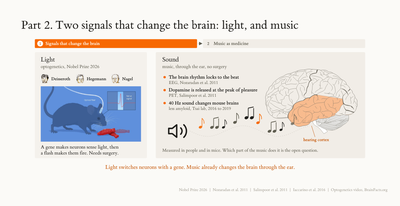
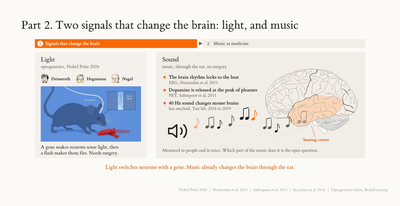
Slide 3: side nodes (Olympia, Mount Rainier, English, Eiffel Tower, Louvre, French) removed, only the two chains the questions walk, labels moved off the incoming lines
Claude-Session: https://claude.ai/code/session_01CwywQbHke1EKdwXqbCrAvs

Changed region(s): [[0.48, 0.466, 0.87, 0.6408]]

diff --git a/graph-inside/2026-11-19-cs-colloquium/index.html b/graph-inside/2026-11-19-cs-colloquium/index.html
@@ -438,7 +438,7 @@ html,body,.reveal-viewport{background:#FBFAF7 !important}
 <section data-ch="0">
 <section data-ch="0">
   <h2>Change one fact, and the next question goes wrong</h2><span class="graphtag"><svg viewBox="0 0 22 14"><line x1="3" y1="11" x2="11" y2="3" stroke="currentColor" stroke-width="1.3"/><line x1="11" y1="3" x2="19" y2="11" stroke="currentColor" stroke-width="1.3"/><line x1="3" y1="11" x2="19" y2="11" stroke="currentColor" stroke-width="1.3"/><circle cx="3" cy="11" r="2.4" fill="currentColor"/><circle cx="11" cy="3" r="2.4" fill="currentColor"/><circle cx="19" cy="11" r="2.4" fill="currentColor"/></svg><b>graph 2 of 7</b> level 2, the knowledge graph</span>
-  <svg viewBox="0 0 1180 432" style="width:100%;max-width:1160px;height:auto;max-height:432px;display:block;margin:0 auto"><style>.reveal .k3d{stroke-dasharray:100;stroke-dashoffset:100}.reveal .fragment.visible .k3d{animation:k3draw 1.2s ease forwards .3s}@keyframes k3draw{to{stroke-dashoffset:0}}.reveal .k3old{animation:k3glow 1.4s ease-in-out infinite alternate}@keyframes k3glow{from{stroke-opacity:.35}to{stroke-opacity:1}}</style><style>.reveal .k3sw{transform-box:view-box;transform-origin:193px 200px;transition:transform 1.1s cubic-bezier(.5,0,.3,1)}.reveal .fragment.custom.visible .k3sw{transform:rotate(76.0deg) scale(1.213)}.reveal .k3col{transition:stroke 1.1s}.reveal .fragment.custom.visible .k3col{stroke:#F76902}.reveal .k3late{transition:opacity .5s ease 1.1s !important}</style><defs><marker id="k3a" viewBox="0 0 10 10" refX="8" refY="5" markerWidth="6" markerHeight="6" orient="auto-start-reverse"><path d="M0,0 L10,5 L0,10 z" fill="#5F5D50"/></marker><marker id="k3o" viewBox="0 0 10 10" refX="8" refY="5" markerWidth="6" markerHeight="6" orient="auto-start-reverse"><path d="M0,0 L10,5 L0,10 z" fill="#F76902"/></marker><marker id="k3t" viewBox="0 0 10 10" refX="8" refY="5" markerWidth="6" markerHeight="6" orient="auto-start-reverse"><path d="M0,0 L10,5 L0,10 z" fill="#4C5B66"/></marker><marker id="k3k" viewBox="0 0 10 10" refX="8" refY="5" markerWidth="6" markerHeight="6" orient="auto-start-reverse"><path d="M0,0 L10,5 L0,10 z" fill="#1F1E1B"/></marker><marker id="k3g" viewBox="0 0 10 10" refX="8" refY="5" markerWidth="6" markerHeight="6" orient="auto-start-reverse"><path d="M0,0 L10,5 L0,10 z" fill="#ACA39A"/></marker><radialGradient id="k3gl"><stop offset="0" stop-color="#F76902" stop-opacity=".5"/><stop offset="1" stop-color="#F76902" stop-opacity="0"/></radialGradient><radialGradient id="k3gt"><stop offset="0" stop-color="#4C5B66" stop-opacity=".45"/><stop offset="1" stop-color="#4C5B66" stop-opacity="0"/></radialGradient></defs><defs><marker id="axk" viewBox="0 0 10 10" refX="8" refY="5" markerWidth="5" markerHeight="5" orient="auto"><path d="M0,0 L10,5 L0,10 z" fill="#1F1E1B"/></marker></defs><text x="30" y="30" font-size="16.5" font-weight="400" fill="#1F1E1B" text-anchor="start" font-family="et-book,Georgia,serif" style="font-size-adjust:none">Knowledge editing changes the one fact it targets, and leaves the related facts untouched.</text><image href="figs/space-needle-tall.jpg" x="40" y="92" width="126" height="186" preserveAspectRatio="xMidYMid meet" preserveAspectRatio="xMidYMid slice"/><rect x="24" y="284" width="158" height="40" rx="3" fill="#EFEBE5" stroke="none" stroke-width="0" /><text x="103" y="309" font-size="17.5" font-weight="600" fill="#1F1E1B" text-anchor="middle" >Space Needle</text><circle cx="184" cy="200" r="7" fill="#1F1E1B" stroke="none" stroke-width="1.5" /><rect x="232" y="40" width="548" height="124" rx="4" fill="#F4F1EC" stroke="none" stroke-width="0" /><path d="M340.0,120.0 L468.0,120.0" stroke="#7C878E" stroke-width="1.5" fill="none" marker-end="url(#k3a)" /><text x="405.0" y="113.0" font-size="14.5" font-weight="400" fill="#5F5D50" text-anchor="middle" >city in</text><path d="M490.0,120.0 L618.0,120.0" stroke="#7C878E" stroke-width="1.5" fill="none" marker-end="url(#k3a)" /><text x="555.0" y="113.0" font-size="14.5" font-weight="400" fill="#5F5D50" text-anchor="middle" >state of</text><path d="M640.0,120.0 L728.0,120.0" stroke="#7C878E" stroke-width="1.5" fill="none" marker-end="url(#k3a)" /><text x="685.0" y="113.0" font-size="14.5" font-weight="400" fill="#5F5D50" text-anchor="middle" >currency</text><path d="M480.0,110.0 L480.0,76.0" stroke="#7C878E" stroke-width="1.5" fill="none" marker-end="url(#k3a)" /><path d="M330.0,110.0 L330.0,76.0" stroke="#7C878E" stroke-width="1.5" fill="none" marker-end="url(#k3a)" /><path d="M630.0,110.0 L630.0,76.0" stroke="#7C878E" stroke-width="1.5" fill="none" marker-end="url(#k3a)" /><circle cx="330" cy="120" r="7.5" fill="#5F5D50" stroke="none" stroke-width="1.5" /><text x="330" y="146" font-size="16.5" font-weight="600" fill="#1F1E1B" text-anchor="middle" >Seattle</text><circle cx="480" cy="120" r="7.5" fill="#5F5D50" stroke="none" stroke-width="1.5" /><text x="480" y="146" font-size="16.5" font-weight="600" fill="#1F1E1B" text-anchor="middle" >Washington</text><circle cx="630" cy="120" r="7.5" fill="#5F5D50" stroke="none" stroke-width="1.5" /><text x="630" y="146" font-size="16.5" font-weight="600" fill="#1F1E1B" text-anchor="middle" >United States</text><circle cx="740" cy="120" r="7.5" fill="#5F5D50" stroke="none" stroke-width="1.5" /><text x="740" y="146" font-size="16.5" font-weight="600" fill="#1F1E1B" text-anchor="middle" >dollar</text><circle cx="480" cy="64" r="7.5" fill="#5F5D50" stroke="none" stroke-width="1.5" /><text x="493" y="69" font-size="16.5" font-weight="600" fill="#1F1E1B" text-anchor="start" >Olympia</text><circle cx="330" cy="64" r="7.5" fill="#5F5D50" stroke="none" stroke-width="1.5" /><text x="343" y="69" font-size="16.5" font-weight="600" fill="#1F1E1B" text-anchor="start" >Mount Rainier</text><circle cx="630" cy="64" r="7.5" fill="#5F5D50" stroke="none" stroke-width="1.5" /><text x="643" y="69" font-size="16.5" font-weight="600" fill="#1F1E1B" text-anchor="start" >English</text><rect x="232" y="270" width="548" height="150" rx="4" fill="#F4F1EC" stroke="none" stroke-width="0" /><path d="M340.0,330.0 L468.0,330.0" stroke="#7C878E" stroke-width="1.5" fill="none" marker-end="url(#k3a)" /><text x="405.0" y="323.0" font-size="14.5" font-weight="400" fill="#5F5D50" text-anchor="middle" >city in</text><path d="M490.0,330.0 L618.0,330.0" stroke="#7C878E" stroke-width="1.5" fill="none" marker-end="url(#k3a)" /><text x="555.0" y="323.0" font-size="14.5" font-weight="400" fill="#5F5D50" text-anchor="middle" >currency</text><path d="M330.0,382.0 L330.0,342.0" stroke="#7C878E" stroke-width="1.5" fill="none" marker-end="url(#k3a)" /><path d="M470.8,388.2 L341.1,334.6" stroke="#7C878E" stroke-width="1.5" fill="none" marker-end="url(#k3a)" /><path d="M489.2,333.8 L618.9,387.4" stroke="#7C878E" stroke-width="1.5" fill="none" marker-end="url(#k3a)" /><circle cx="330" cy="330" r="7.5" fill="#5F5D50" stroke="none" stroke-width="1.5" /><text x="330" y="316" font-size="16.5" font-weight="600" fill="#1F1E1B" text-anchor="middle" >Paris</text><circle cx="480" cy="330" r="7.5" fill="#5F5D50" stroke="none" stroke-width="1.5" /><text x="480" y="316" font-size="16.5" font-weight="600" fill="#1F1E1B" text-anchor="middle" >France</text><circle cx="630" cy="330" r="7.5" fill="#5F5D50" stroke="none" stroke-width="1.5" /><text x="630" y="316" font-size="16.5" font-weight="600" fill="#1F1E1B" text-anchor="middle" >euro</text><circle cx="330" cy="392" r="7.5" fill="#5F5D50" stroke="none" stroke-width="1.5" /><text x="343" y="397" font-size="16.5" font-weight="600" fill="#1F1E1B" text-anchor="start" >Eiffel Tower</text><circle cx="480" cy="392" r="7.5" fill="#5F5D50" stroke="none" stroke-width="1.5" /><text x="493" y="397" font-size="16.5" font-weight="600" fill="#1F1E1B" text-anchor="start" >Louvre</text><circle cx="630" cy="392" r="7.5" fill="#5F5D50" stroke="none" stroke-width="1.5" /><text x="643" y="397" font-size="16.5" font-weight="600" fill="#1F1E1B" text-anchor="start" >French</text><g class="fragment custom" data-fragment-index="1"><g class="k3sw"><line class="k3col" x1="193" y1="200" x2="318.0" y2="125.0" stroke="#1F1E1B" stroke-width="2.5"/><path d="M318.0,125.0 l-11,-5 l0,10 Z" transform="rotate(-31.0 318.0 125.0)" fill="#F76902"/></g></g><g class="fragment fade-out" data-fragment-index="1"><text x="214" y="158" font-size="15" font-weight="600" fill="#1F1E1B" text-anchor="start" transform="rotate(-28 214 158)">located in</text></g><g class="fragment k3late" data-fragment-index="1"><text x="103" y="346" font-size="15.5" font-weight="600" fill="#C45200" text-anchor="middle" >the edit:</text><text x="103" y="364" font-size="15.5" font-weight="600" fill="#C45200" text-anchor="middle" >located in Paris</text><path d="M193,194 C250,170 280,140 320,128" stroke="#ACA39A" stroke-width="1.5" fill="none" stroke-dasharray="3 5"/></g><text x="810" y="64" font-size="20" font-weight="400" fill="#C45200" text-anchor="start" font-family="et-book,Georgia,serif" style="font-size-adjust:none">Ask the model</text><path d="M810,84 h340 v68 h-340 Z" fill="#F4F1EC"/><text x="828" y="110" font-size="18" font-weight="600" fill="#1F1E1B" text-anchor="start" >Which city is it in?</text><text x="828" y="137" font-size="18.5" font-weight="400" fill="#1F1E1B" text-anchor="start" >✓ Seattle</text><path d="M810,164 h340 v68 h-340 Z" fill="#F4F1EC"/><text x="828" y="190" font-size="18" font-weight="600" fill="#1F1E1B" text-anchor="start" >Which country is it in?</text><text x="828" y="217" font-size="18.5" font-weight="400" fill="#1F1E1B" text-anchor="start" >✓ United States</text><path d="M810,244 h340 v68 h-340 Z" fill="#F4F1EC"/><text x="828" y="270" font-size="18" font-weight="600" fill="#1F1E1B" text-anchor="start" >Which state is it in?</text><text x="828" y="297" font-size="18.5" font-weight="400" fill="#1F1E1B" text-anchor="start" >✓ Washington</text><path d="M810,324 h340 v68 h-340 Z" fill="#F4F1EC"/><text x="828" y="350" font-size="18" font-weight="600" fill="#1F1E1B" text-anchor="start" >Which currency is used there?</text><text x="828" y="377" font-size="18.5" font-weight="400" fill="#1F1E1B" text-anchor="start" >✓ dollar</text><g class="fragment k3late" data-fragment-index="1"><path d="M810,84 h340 v68 h-340 Z" fill="#F4F1EC"/><path d="M810,84 h5 v68 h-5 Z" fill="#F76902"/><text x="828" y="110" font-size="18" font-weight="600" fill="#1F1E1B" text-anchor="start" >Which city is it in?</text><text x="828" y="137" font-size="18.5" font-weight="400" fill="#5F5D50" text-anchor="start" >Seattle</text><line x1="826" y1="131" x2="888" y2="131" stroke="#5F5D50" stroke-width="1.6" /><text x="898" y="137" font-size="18.5" font-weight="600" fill="#C45200" text-anchor="start" >→ Paris</text><text x="1136" y="137" font-size="15.5" font-weight="400" fill="#5F5D50" text-anchor="end" >edited</text><path d="M810,164 h340 v68 h-340 Z" fill="#FDEBDD"/><path d="M810,164 h5 v68 h-5 Z" fill="#DA291C"/><text x="828" y="190" font-size="18" font-weight="600" fill="#1F1E1B" text-anchor="start" >Which country is it in?</text><text x="828" y="217" font-size="18.5" font-weight="600" fill="#DA291C" text-anchor="start" >✗ United States</text><text x="1136" y="217" font-size="15.5" font-weight="400" fill="#5F5D50" text-anchor="end" >should be France</text><path d="M810,244 h340 v68 h-340 Z" fill="#FDEBDD"/><path d="M810,244 h5 v68 h-5 Z" fill="#DA291C"/><text x="828" y="270" font-size="18" font-weight="600" fill="#1F1E1B" text-anchor="start" >Which state is it in?</text><text x="828" y="297" font-size="18.5" font-weight="600" fill="#DA291C" text-anchor="start" >✗ Washington</text><text x="1136" y="297" font-size="15.5" font-weight="400" fill="#5F5D50" text-anchor="end" >should be none</text><path d="M810,324 h340 v68 h-340 Z" fill="#FDEBDD"/><path d="M810,324 h5 v68 h-5 Z" fill="#DA291C"/><text x="828" y="350" font-size="18" font-weight="600" fill="#1F1E1B" text-anchor="start" >Which currency is used there?</text><text x="828" y="377" font-size="18.5" font-weight="600" fill="#DA291C" text-anchor="start" >✗ dollar</text><text x="1136" y="377" font-size="15.5" font-weight="400" fill="#5F5D50" text-anchor="end" >should be euro</text><text x="810" y="418" font-size="15" font-weight="600" fill="#DA291C" text-anchor="start" >Before the edit all four agreed. Now they contradict.</text><path d="M340,120 L470,120 M490,120 L620,120 M640,120 L730,120" stroke="#DA291C" stroke-width="2.5" fill="none" class="k3old" stroke-linecap="round" fill="none"/></g></svg>
+  <svg viewBox="0 0 1180 432" style="width:100%;max-width:1160px;height:auto;max-height:432px;display:block;margin:0 auto"><style>.reveal .k3d{stroke-dasharray:100;stroke-dashoffset:100}.reveal .fragment.visible .k3d{animation:k3draw 1.2s ease forwards .3s}@keyframes k3draw{to{stroke-dashoffset:0}}.reveal .k3old{animation:k3glow 1.4s ease-in-out infinite alternate}@keyframes k3glow{from{stroke-opacity:.35}to{stroke-opacity:1}}</style><style>.reveal .k3sw{transform-box:view-box;transform-origin:193px 200px;transition:transform 1.1s cubic-bezier(.5,0,.3,1)}.reveal .fragment.custom.visible .k3sw{transform:rotate(70.8deg) scale(1.046)}.reveal .k3col{transition:stroke 1.1s}.reveal .fragment.custom.visible .k3col{stroke:#F76902}.reveal .k3late{transition:opacity .5s ease 1.1s !important}</style><defs><marker id="k3a" viewBox="0 0 10 10" refX="8" refY="5" markerWidth="6" markerHeight="6" orient="auto-start-reverse"><path d="M0,0 L10,5 L0,10 z" fill="#5F5D50"/></marker><marker id="k3o" viewBox="0 0 10 10" refX="8" refY="5" markerWidth="6" markerHeight="6" orient="auto-start-reverse"><path d="M0,0 L10,5 L0,10 z" fill="#F76902"/></marker><marker id="k3t" viewBox="0 0 10 10" refX="8" refY="5" markerWidth="6" markerHeight="6" orient="auto-start-reverse"><path d="M0,0 L10,5 L0,10 z" fill="#4C5B66"/></marker><marker id="k3k" viewBox="0 0 10 10" refX="8" refY="5" markerWidth="6" markerHeight="6" orient="auto-start-reverse"><path d="M0,0 L10,5 L0,10 z" fill="#1F1E1B"/></marker><marker id="k3g" viewBox="0 0 10 10" refX="8" refY="5" markerWidth="6" markerHeight="6" orient="auto-start-reverse"><path d="M0,0 L10,5 L0,10 z" fill="#ACA39A"/></marker><radialGradient id="k3gl"><stop offset="0" stop-color="#F76902" stop-opacity=".5"/><stop offset="1" stop-color="#F76902" stop-opacity="0"/></radialGradient><radialGradient id="k3gt"><stop offset="0" stop-color="#4C5B66" stop-opacity=".45"/><stop offset="1" stop-color="#4C5B66" stop-opacity="0"/></radialGradient></defs><defs><marker id="axk" viewBox="0 0 10 10" refX="8" refY="5" markerWidth="5" markerHeight="5" orient="auto"><path d="M0,0 L10,5 L0,10 z" fill="#1F1E1B"/></marker></defs><text x="30" y="30" font-size="16.5" font-weight="400" fill="#1F1E1B" text-anchor="start" font-family="et-book,Georgia,serif" style="font-size-adjust:none">Knowledge editing changes the one fact it targets, and leaves the related facts untouched.</text><image href="figs/space-needle-tall.jpg" x="40" y="92" width="126" height="186" preserveAspectRatio="xMidYMid meet" preserveAspectRatio="xMidYMid slice"/><rect x="24" y="284" width="158" height="40" rx="3" fill="#EFEBE5" stroke="none" stroke-width="0" /><text x="103" y="309" font-size="17.5" font-weight="600" fill="#1F1E1B" text-anchor="middle" >Space Needle</text><circle cx="184" cy="200" r="7" fill="#1F1E1B" stroke="none" stroke-width="1.5" /><rect x="232" y="66" width="548" height="82" rx="4" fill="#F4F1EC" stroke="none" stroke-width="0" /><path d="M340.0,112.0 L468.0,112.0" stroke="#7C878E" stroke-width="1.5" fill="none" marker-end="url(#k3a)" /><text x="405.0" y="131.0" font-size="14.5" font-weight="400" fill="#5F5D50" text-anchor="middle" >city in</text><path d="M490.0,112.0 L618.0,112.0" stroke="#7C878E" stroke-width="1.5" fill="none" marker-end="url(#k3a)" /><text x="555.0" y="131.0" font-size="14.5" font-weight="400" fill="#5F5D50" text-anchor="middle" >state of</text><path d="M640.0,112.0 L728.0,112.0" stroke="#7C878E" stroke-width="1.5" fill="none" marker-end="url(#k3a)" /><text x="685.0" y="131.0" font-size="14.5" font-weight="400" fill="#5F5D50" text-anchor="middle" >currency</text><circle cx="330" cy="112" r="7.5" fill="#5F5D50" stroke="none" stroke-width="1.5" /><text x="330" y="98" font-size="16.5" font-weight="600" fill="#1F1E1B" text-anchor="middle" >Seattle</text><circle cx="480" cy="112" r="7.5" fill="#5F5D50" stroke="none" stroke-width="1.5" /><text x="480" y="98" font-size="16.5" font-weight="600" fill="#1F1E1B" text-anchor="middle" >Washington</text><circle cx="630" cy="112" r="7.5" fill="#5F5D50" stroke="none" stroke-width="1.5" /><text x="630" y="98" font-size="16.5" font-weight="600" fill="#1F1E1B" text-anchor="middle" >United States</text><circle cx="740" cy="112" r="7.5" fill="#5F5D50" stroke="none" stroke-width="1.5" /><text x="740" y="98" font-size="16.5" font-weight="600" fill="#1F1E1B" text-anchor="middle" >dollar</text><rect x="232" y="264" width="548" height="82" rx="4" fill="#F4F1EC" stroke="none" stroke-width="0" /><path d="M340.0,300.0 L468.0,300.0" stroke="#7C878E" stroke-width="1.5" fill="none" marker-end="url(#k3a)" /><text x="405.0" y="293.0" font-size="14.5" font-weight="400" fill="#5F5D50" text-anchor="middle" >city in</text><path d="M490.0,300.0 L618.0,300.0" stroke="#7C878E" stroke-width="1.5" fill="none" marker-end="url(#k3a)" /><text x="555.0" y="293.0" font-size="14.5" font-weight="400" fill="#5F5D50" text-anchor="middle" >currency</text><circle cx="330" cy="300" r="7.5" fill="#5F5D50" stroke="none" stroke-width="1.5" /><text x="330" y="326" font-size="16.5" font-weight="600" fill="#1F1E1B" text-anchor="middle" >Paris</text><circle cx="480" cy="300" r="7.5" fill="#5F5D50" stroke="none" stroke-width="1.5" /><text x="480" y="326" font-size="16.5" font-weight="600" fill="#1F1E1B" text-anchor="middle" >France</text><circle cx="630" cy="300" r="7.5" fill="#5F5D50" stroke="none" stroke-width="1.5" /><text x="630" y="326" font-size="16.5" font-weight="600" fill="#1F1E1B" text-anchor="middle" >euro</text><g class="fragment custom" data-fragment-index="1"><g class="k3sw"><line class="k3col" x1="193" y1="200" x2="318.0" y2="117.0" stroke="#1F1E1B" stroke-width="2.5"/><path d="M318.0,117.0 l-11,-5 l0,10 Z" transform="rotate(-33.6 318.0 117.0)" fill="#F76902"/></g></g><g class="fragment fade-out" data-fragment-index="1"><text x="214" y="158" font-size="15" font-weight="600" fill="#1F1E1B" text-anchor="start" transform="rotate(-28 214 158)">located in</text></g><g class="fragment k3late" data-fragment-index="1"><text x="103" y="346" font-size="15.5" font-weight="600" fill="#C45200" text-anchor="middle" >the edit:</text><text x="103" y="364" font-size="15.5" font-weight="600" fill="#C45200" text-anchor="middle" >located in Paris</text><path d="M193,194 C250,170 280,140 320,120" stroke="#ACA39A" stroke-width="1.5" fill="none" stroke-dasharray="3 5"/></g><text x="810" y="64" font-size="20" font-weight="400" fill="#C45200" text-anchor="start" font-family="et-book,Georgia,serif" style="font-size-adjust:none">Ask the model</text><path d="M810,84 h340 v68 h-340 Z" fill="#F4F1EC"/><text x="828" y="110" font-size="18" font-weight="600" fill="#1F1E1B" text-anchor="start" >Which city is it in?</text><text x="828" y="137" font-size="18.5" font-weight="400" fill="#1F1E1B" text-anchor="start" >✓ Seattle</text><path d="M810,164 h340 v68 h-340 Z" fill="#F4F1EC"/><text x="828" y="190" font-size="18" font-weight="600" fill="#1F1E1B" text-anchor="start" >Which country is it in?</text><text x="828" y="217" font-size="18.5" font-weight="400" fill="#1F1E1B" text-anchor="start" >✓ United States</text><path d="M810,244 h340 v68 h-340 Z" fill="#F4F1EC"/><text x="828" y="270" font-size="18" font-weight="600" fill="#1F1E1B" text-anchor="start" >Which state is it in?</text><text x="828" y="297" font-size="18.5" font-weight="400" fill="#1F1E1B" text-anchor="start" >✓ Washington</text><path d="M810,324 h340 v68 h-340 Z" fill="#F4F1EC"/><text x="828" y="350" font-size="18" font-weight="600" fill="#1F1E1B" text-anchor="start" >Which currency is used there?</text><text x="828" y="377" font-size="18.5" font-weight="400" fill="#1F1E1B" text-anchor="start" >✓ dollar</text><g class="fragment k3late" data-fragment-index="1"><path d="M810,84 h340 v68 h-340 Z" fill="#F4F1EC"/><path d="M810,84 h5 v68 h-5 Z" fill="#F76902"/><text x="828" y="110" font-size="18" font-weight="600" fill="#1F1E1B" text-anchor="start" >Which city is it in?</text><text x="828" y="137" font-size="18.5" font-weight="400" fill="#5F5D50" text-anchor="start" >Seattle</text><line x1="826" y1="131" x2="888" y2="131" stroke="#5F5D50" stroke-width="1.6" /><text x="898" y="137" font-size="18.5" font-weight="600" fill="#C45200" text-anchor="start" >→ Paris</text><text x="1136" y="137" font-size="15.5" font-weight="400" fill="#5F5D50" text-anchor="end" >edited</text><path d="M810,164 h340 v68 h-340 Z" fill="#FDEBDD"/><path d="M810,164 h5 v68 h-5 Z" fill="#DA291C"/><text x="828" y="190" font-size="18" font-weight="600" fill="#1F1E1B" text-anchor="start" >Which country is it in?</text><text x="828" y="217" font-size="18.5" font-weight="600" fill="#DA291C" text-anchor="start" >✗ United States</text><text x="1136" y="217" font-size="15.5" font-weight="400" fill="#5F5D50" text-anchor="end" >should be France</text><path d="M810,244 h340 v68 h-340 Z" fill="#FDEBDD"/><path d="M810,244 h5 v68 h-5 Z" fill="#DA291C"/><text x="828" y="270" font-size="18" font-weight="600" fill="#1F1E1B" text-anchor="start" >Which state is it in?</text><text x="828" y="297" font-size="18.5" font-weight="600" fill="#DA291C" text-anchor="start" >✗ Washington</text><text x="1136" y="297" font-size="15.5" font-weight="400" fill="#5F5D50" text-anchor="end" >should be none</text><path d="M810,324 h340 v68 h-340 Z" fill="#FDEBDD"/><path d="M810,324 h5 v68 h-5 Z" fill="#DA291C"/><text x="828" y="350" font-size="18" font-weight="600" fill="#1F1E1B" text-anchor="start" >Which currency is used there?</text><text x="828" y="377" font-size="18.5" font-weight="600" fill="#DA291C" text-anchor="start" >✗ dollar</text><text x="1136" y="377" font-size="15.5" font-weight="400" fill="#5F5D50" text-anchor="end" >should be euro</text><text x="810" y="418" font-size="15" font-weight="600" fill="#DA291C" text-anchor="start" >Before the edit all four agreed. Now they contradict.</text><path d="M340,112 L470,112 M490,112 L620,112 M640,112 L730,112" stroke="#DA291C" stroke-width="2.5" fill="none" class="k3old" stroke-linecap="round" fill="none"/></g></svg>
   <p class="fragment" data-fragment-index="2" style="text-align:center;margin:.1em 1.1em 0"><span style="display:inline-block;background:#FDEFE3;border-left:7px solid #F76902;border-radius:3px;padding:.32em 1em;font-family:et-book,Georgia,serif;font-size:.84em;color:#1F1E1B;line-height:1.35">Break the <b style="color:#C45200;font-weight:700">knowledge graph</b> of the real world, and a large language model starts to contradict itself.</span></p>
   <div class="ref"><a href="https://scholar.google.com/scholar?q=Cohen+et+al.%2C+Evaluating+the+Ripple+Effects+of+Knowledge+Editing+in+Language+Models%2C+TACL+2024" target="_blank" rel="noopener" title="Cohen et al., Evaluating the Ripple Effects of Knowledge Editing in Language Models, TACL 2024">Cohen et al. 2024</a><span class="rsep" aria-hidden="true"></span><a href="https://scholar.google.com/scholar?q=Zhong+et+al.%2C+MQuAKE%2C+EMNLP+2023" target="_blank" rel="noopener" title="Zhong et al., MQuAKE, EMNLP 2023">Zhong et al. 2023</a></div>
   <aside class="notes">Same photo as the slide before. Two small knowledge graphs: on top Seattle, Washington, the United States, the dollar, below Paris, France, the euro. The Space Needle points up: located in Seattle. On the right, four questions, and before any edit all four answers agree: Seattle, United States, Washington, dollar. Click: knowledge editing. Watch the arrow swing from Seattle down to Paris. Methods like ROME and MEMIT do this by adding a small change to some weights. And watch the answers: the first one changes to Paris, the other three do not. Now they contradict each other, a Space Needle in Paris, in the United States, in Washington, paid in dollars. The red path on top is what the model still walks. Click: the key statement. Break the knowledge graph of the real world, and a large language model starts to contradict itself. The edit changed one edge and never looked at the graph around it. The next slide asks our question. This is the ripple effect measured by RippleEdits and MQuAKE. Photo: Kerry Park panorama by SounderBruce, CC BY-SA 4.0. Bridge: back to the network itself, with this in mind.</aside>

diff --git a/graph-inside/2026-11-19-cs-colloquium/src/talk.py b/graph-inside/2026-11-19-cs-colloquium/src/talk.py
@@ -2402,20 +2402,20 @@ g += C(*SN, 7, INK)
 def kn(x, y, lab, pos='up', col='#4C5B66', size=15):
     t = {'up': T(x, y - 14, lab, size, 600, INK, 'middle'), 'down': T(x, y + 26, lab, size, 600, INK, 'middle'), 'right': T(x + 13, y + 5, lab, size, 600, INK)}[pos]
     return C(x, y, 7.5, col) + t
-def ke(p1, p2, lab='', col='#7C878E', sw=1.5, extra=''):
+def ke(p1, p2, lab='', col='#7C878E', sw=1.5, extra='', below=False):
     (x1, y1), (x2, y2) = p1, p2
     d = math.hypot(x2 - x1, y2 - y1); ux, uy = (x2 - x1) / d, (y2 - y1) / d
-    return P(f'M{x1+ux*10:.1f},{y1+uy*10:.1f} L{x2-ux*12:.1f},{y2-uy*12:.1f}', col, sw, extra='marker-end="url(#k3a)" ' + extra) + (T((x1 + x2) / 2, (y1 + y2) / 2 - 7, lab, 12, 400, MUT, 'middle') if lab else '')
+    return P(f'M{x1+ux*10:.1f},{y1+uy*10:.1f} L{x2-ux*12:.1f},{y2-uy*12:.1f}', col, sw, extra='marker-end="url(#k3a)" ' + extra) + (T((x1 + x2) / 2, (y1 + y2) / 2 + (19 if below else -7), lab, 12, 400, MUT, 'middle') if lab else '')
 # top graph: the truth about Seattle
-SE, WA, US, DO, OL, RA, EN = (330, 120), (480, 120), (630, 120), (740, 120), (480, 64), (330, 64), (630, 64)
-top = R(232, 40, 548, 124, '#F4F1EC', 'none', 0, 6)
-top += ke(SE, WA, 'city in') + ke(WA, US, 'state of') + ke(US, DO, 'currency') + ke(WA, OL) + ke(SE, RA) + ke(US, EN)
-top += kn(*SE, 'Seattle', 'down') + kn(*WA, 'Washington', 'down') + kn(*US, 'United States', 'down') + kn(*DO, 'dollar', 'down') + kn(*OL, 'Olympia', 'right') + kn(*RA, 'Mount Rainier', 'right') + kn(*EN, 'English', 'right')
+SE, WA, US, DO = (330, 112), (480, 112), (630, 112), (740, 112)
+top = R(232, 66, 548, 82, '#F4F1EC', 'none', 0, 6)
+top += ke(SE, WA, 'city in', below=True) + ke(WA, US, 'state of', below=True) + ke(US, DO, 'currency', below=True)
+top += kn(*SE, 'Seattle', 'up') + kn(*WA, 'Washington', 'up') + kn(*US, 'United States', 'up') + kn(*DO, 'dollar', 'up')
 # bottom graph: Paris
-PA, FR, EU, ET, LO, FRL = (330, 330), (480, 330), (630, 330), (330, 392), (480, 392), (630, 392)
-bot = R(232, 270, 548, 150, '#F4F1EC', 'none', 0, 6)
-bot += ke(PA, FR, 'city in') + ke(FR, EU, 'currency') + ke(ET, PA, '') + ke(LO, PA, '') + ke(FR, FRL, '')
-bot += kn(*PA, 'Paris', 'up') + kn(*FR, 'France', 'up') + kn(*EU, 'euro', 'up') + kn(*ET, 'Eiffel Tower', 'right') + kn(*LO, 'Louvre', 'right') + kn(*FRL, 'French', 'right')
+PA, FR, EU = (330, 300), (480, 300), (630, 300)
+bot = R(232, 264, 548, 82, '#F4F1EC', 'none', 0, 6)
+bot += ke(PA, FR, 'city in') + ke(FR, EU, 'currency')
+bot += kn(*PA, 'Paris', 'down') + kn(*FR, 'France', 'down') + kn(*EU, 'euro', 'down')
 g += top + bot
 # the arrow swings from Seattle to Paris on one click, and the answers on the right update with it (his note Nov 18)
 ax, ay = SN[0] + 9, SN[1]
